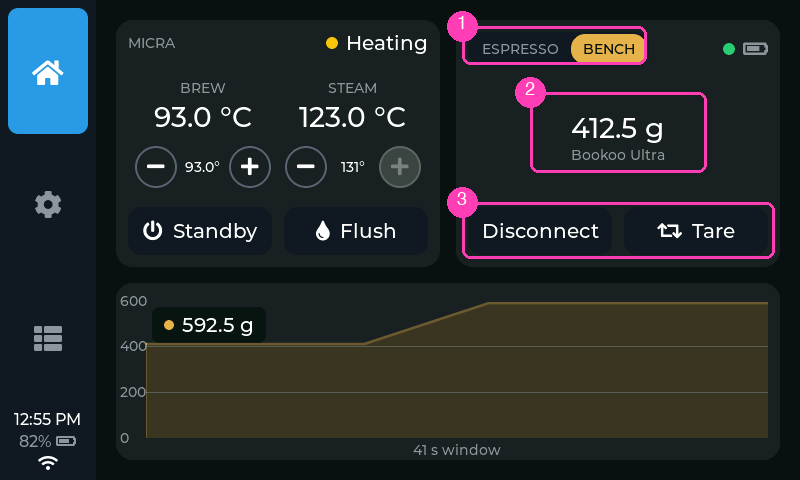
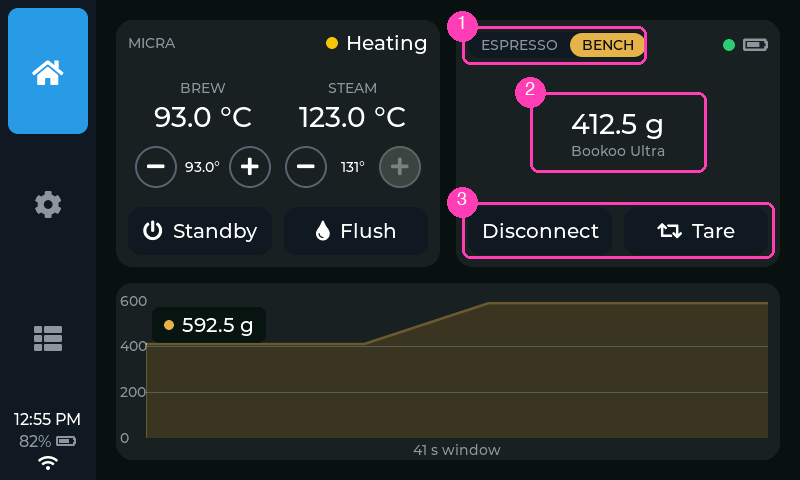
home: slimmer ESPRESSO | BENCH pills — the switch sets the card header's height, and the X-8's stepper row and shot pill were being clipped by the action row (owner)

Changed region(s): [[0.5938, 0.0625, 0.8125, 0.1562], [0.7188, 0.2188, 0.8438, 0.3438], [0.9062, 0.0625, 0.9688, 0.125]]

diff --git a/src/ui/home_tab.cpp b/src/ui/home_tab.cpp
@@ -1112,11 +1112,14 @@ lv_obj_t* make_pill(lv_obj_t* seg, const char* text, const lv_font_t* font, uint
   lv_obj_t* b = ui::make_button(seg);
   lv_obj_set_size(b, LV_SIZE_CONTENT, LV_SIZE_CONTENT);
   lv_obj_set_style_pad_hor(b, ui::dp(12), 0);
-  lv_obj_set_style_pad_ver(b, ui::dp(7), 0);
-  lv_obj_set_style_radius(b, ui::dp(14), 0);
+  // Slim: the switch sets the card header's height, and every dp here is a
+  // dp the body loses — the X-8's shot pill and steppers were being clipped
+  // by the action row (owner, 2026-11-01). The tap target stays thumb-sized
+  // through the extended click area.
+  lv_obj_set_style_pad_ver(b, ui::dp(4), 0);
+  lv_obj_set_style_radius(b, ui::dp(12), 0);
   lv_obj_set_style_opa(b, LV_OPA_40, LV_STATE_DISABLED);
-  // The pill is caption-sized; the thumb isn't. Catch taps well around it.
-  lv_obj_set_ext_click_area(b, ui::dp(10));
+  lv_obj_set_ext_click_area(b, ui::dp(12));
   lv_obj_set_style_bg_color(b, lv_color_hex(color), 0);
   lv_obj_set_style_bg_opa(b, LV_OPA_TRANSP, 0);  // show_bench_side fills the active one
   lv_obj_t* l = lv_label_create(b);
@@ -1139,8 +1142,8 @@ void add_segmented_switch(lv_obj_t* hdr, int idx, const lv_font_t* cap_font,
   lv_obj_remove_flag(seg, LV_OBJ_FLAG_SCROLLABLE);
   lv_obj_set_size(seg, LV_SIZE_CONTENT, LV_SIZE_CONTENT);
   lv_obj_set_flex_flow(seg, LV_FLEX_FLOW_ROW);
-  lv_obj_set_style_pad_all(seg, ui::dp(2), 0);
-  lv_obj_set_style_radius(seg, ui::dp(14), 0);
+  lv_obj_set_style_pad_all(seg, ui::dp(1), 0);
+  lv_obj_set_style_radius(seg, ui::dp(13), 0);
   lv_obj_set_style_bg_opa(seg, LV_OPA_COVER, 0);
   lv_obj_set_style_bg_color(seg, lv_color_hex(ui::theme::rail()), 0);
   out.seg_espresso[idx] = make_pill(seg, "ESPRESSO", cap_font, ui::theme::accent(),
